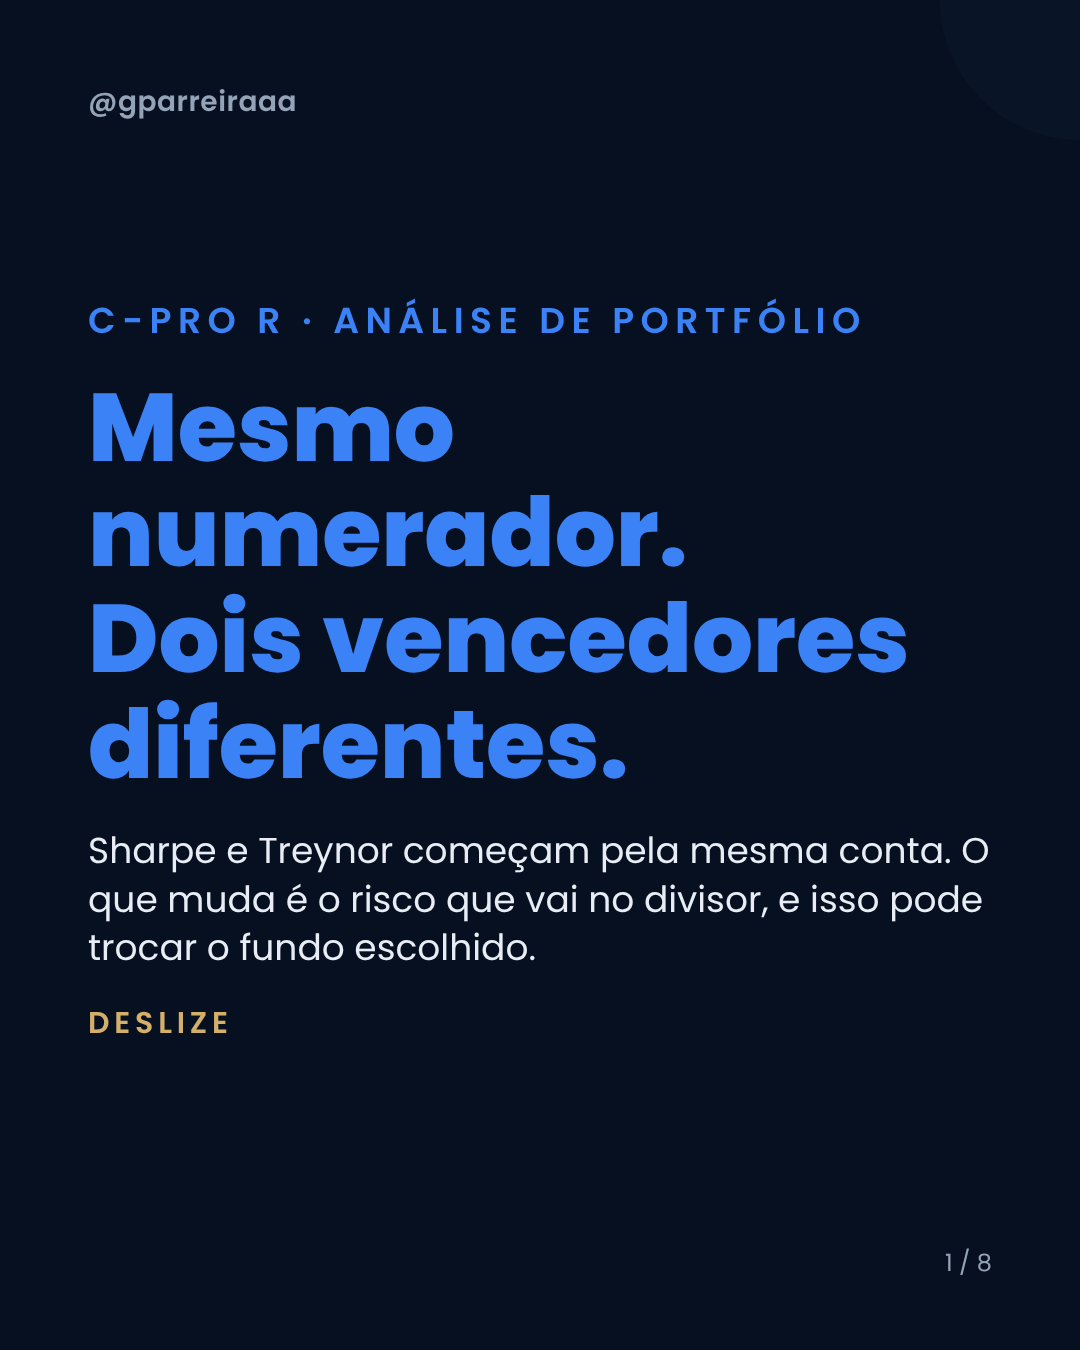
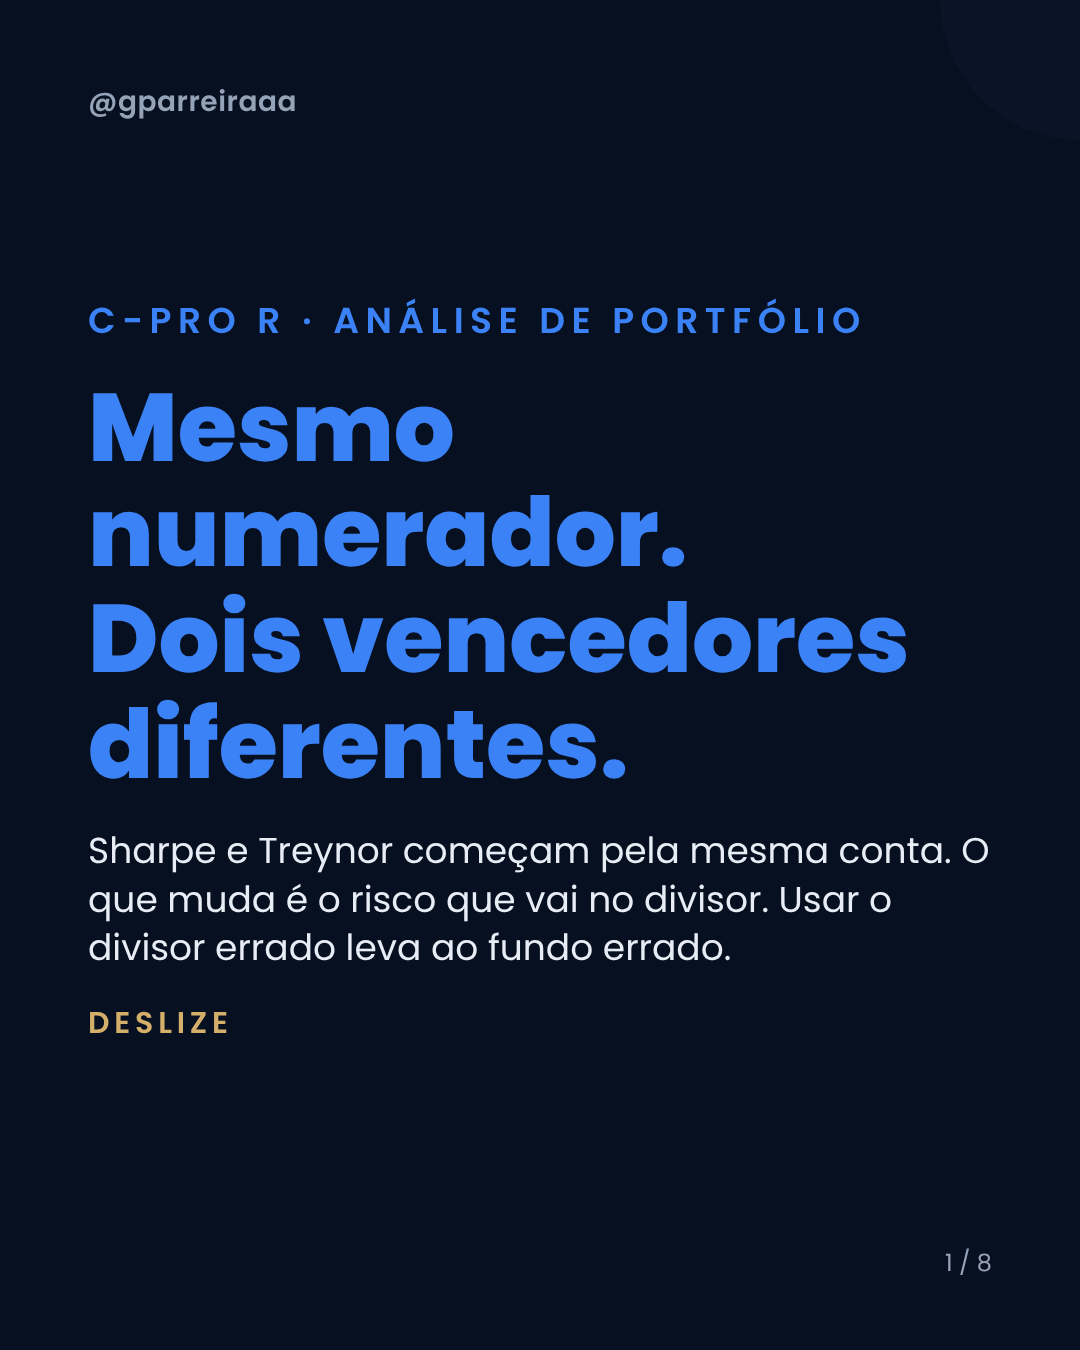
Carrossel Sharpe x Treynor: slide 7 passa a mostrar a distorção do Treynor em fundo concentrado
Claude-Session: https://claude.ai/code/session_01EjWD5r43c3dZJAUNpohNwE

Changed region(s): [[0.0917, 0.6844, 0.6722, 0.7156], [0.7028, 0.6533, 0.9167, 0.6844]]

diff --git a/output/carrossel-sharpe-treynor/slide-07.html b/output/carrossel-sharpe-treynor/slide-07.html
@@ -173,17 +173,14 @@ body {
 <div class="marca">@gparreiraaa</div>
 <div class="conteudo">
 
-<div class="eyebrow">Exemplo</div>
-<h2 class="titulo t80">Mesmos fundos, vencedores trocados.</h2>
+<div class="eyebrow">A armadilha</div>
+<h2 class="titulo t80">Treynor num fundo concentrado distorce.</h2>
 <div class="tab">
   <div class="h" style="text-align:left">Fundo</div><div class="h">Retorno</div><div class="h" style="text-transform:none">σ</div><div class="h" style="text-transform:none">β</div><div class="h">Sharpe</div><div class="h">Treynor</div>
-  <div class="n">A<small>concentrado</small></div><div>16%</div><div>20%</div><div>0,8</div><div>0,30</div><div class="w">7,5</div>
+  <div class="n">A<small>concentrado</small></div><div>16%</div><div>20%</div><div>0,8</div><div>0,30</div><div>7,5</div>
   <div class="n">B<small>diversificado</small></div><div>14%</div><div>8%</div><div>0,8</div><div class="w">0,50</div><div>5,0</div>
 </div>
-<div class="veredito">
-  <div class="card">Sharpe escolhe <span>B</span></div>
-  <div class="card">Treynor escolhe <span>A</span></div>
-</div>
+<p class="p">O A parece melhor no Treynor porque o beta não enxerga o risco específico. Num fundo concentrado, esse risco é grande. <b>A leitura correta é o Sharpe: B.</b></p>
 
 </div>
 <div class="rodape"><span class="fonte">Exemplo hipotético, com taxa livre de risco de 10% ao ano.</span><span>7 / 8</span></div>

diff --git a/output/carrossel-sharpe-treynor/slide-01.html b/output/carrossel-sharpe-treynor/slide-01.html
@@ -175,7 +175,7 @@ body {
 
 <div class="eyebrow"><span class="nb">C-Pro R</span> · Análise de portfólio</div>
 <h1 class="hook" style="font-size:96px">Mesmo<br>numerador.<br>Dois vencedores<br>diferentes.</h1>
-<p class="p">Sharpe e Treynor começam pela mesma conta. O que muda é o risco que vai no divisor, e isso pode trocar o fundo escolhido.</p>
+<p class="p">Sharpe e Treynor começam pela mesma conta. O que muda é o risco que vai no divisor. Usar o divisor errado leva ao fundo errado.</p>
 <div class="deslize">Deslize</div>
 
 </div>
